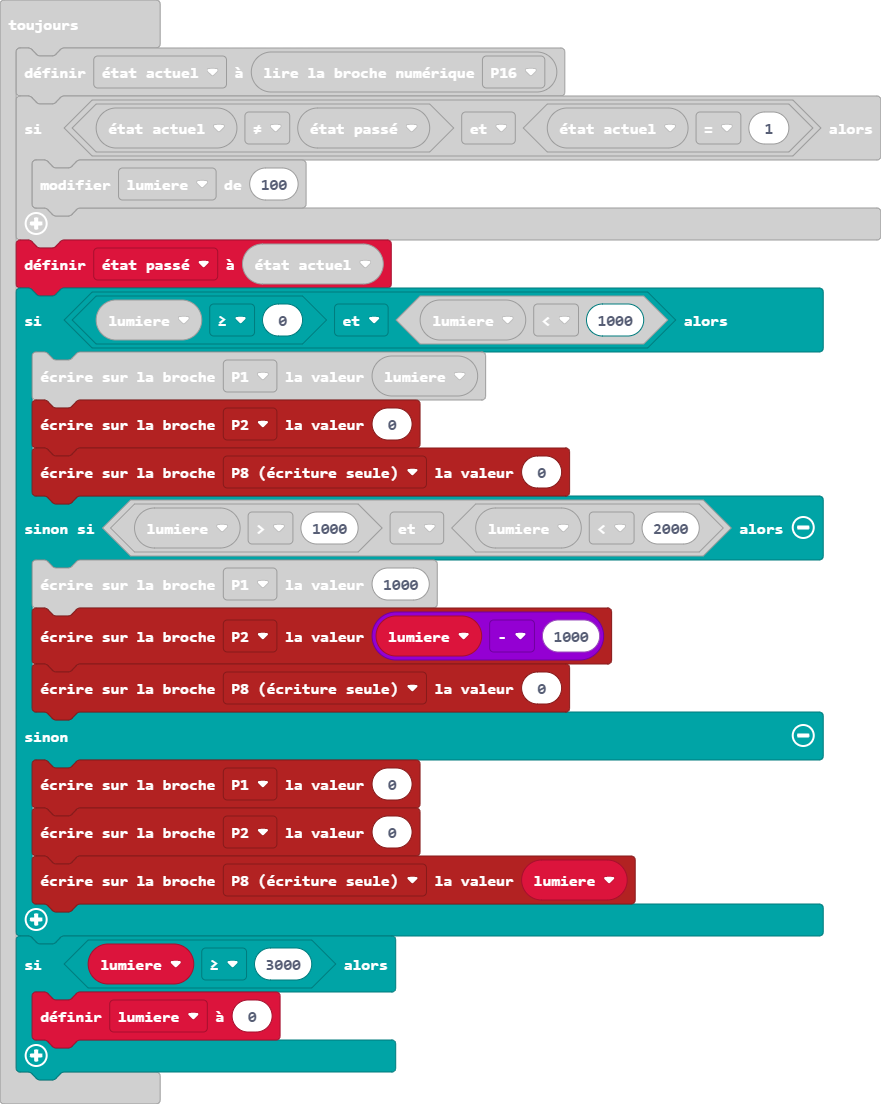
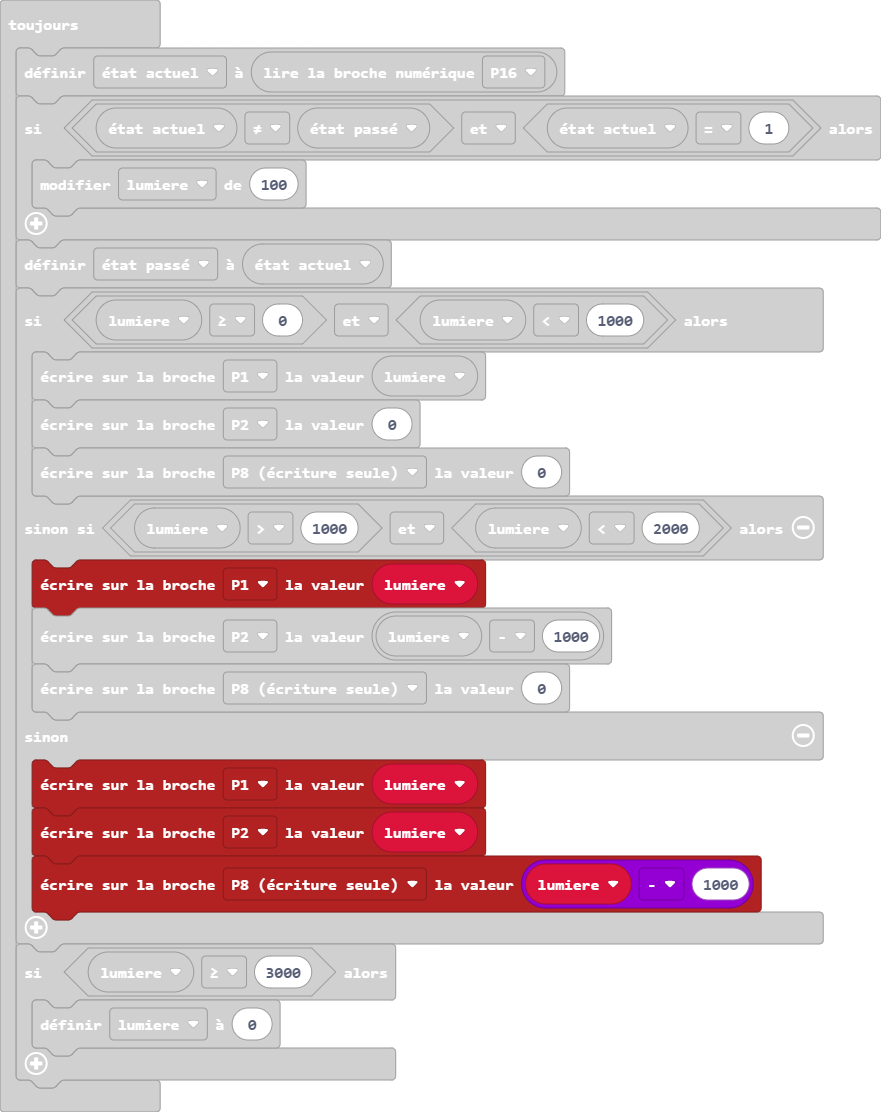
Mise à jour main.blocks, main.ts

diff --git a/main.ts b/main.ts
@@ -12,13 +12,13 @@ basic.forever(function () {
         pins.analogWritePin(AnalogPin.P2, 0)
         pins.analogWritePin(AnalogPin.P8, 0)
     } else if (lumiere > 1000 && lumiere < 2000) {
-        pins.analogWritePin(AnalogPin.P1, 1000)
+        pins.analogWritePin(AnalogPin.P1, lumiere)
         pins.analogWritePin(AnalogPin.P2, lumiere - 1000)
         pins.analogWritePin(AnalogPin.P8, 0)
     } else {
-        pins.analogWritePin(AnalogPin.P1, 0)
-        pins.analogWritePin(AnalogPin.P2, 0)
-        pins.analogWritePin(AnalogPin.P8, lumiere)
+        pins.analogWritePin(AnalogPin.P1, lumiere)
+        pins.analogWritePin(AnalogPin.P2, lumiere)
+        pins.analogWritePin(AnalogPin.P8, lumiere - 1000)
     }
     if (lumiere >= 3000) {
         lumiere = 0
